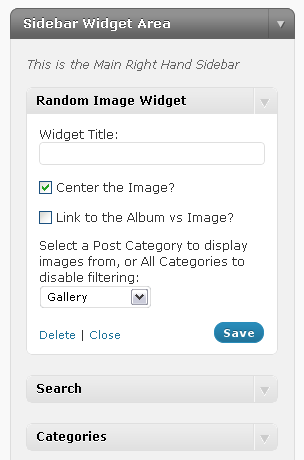
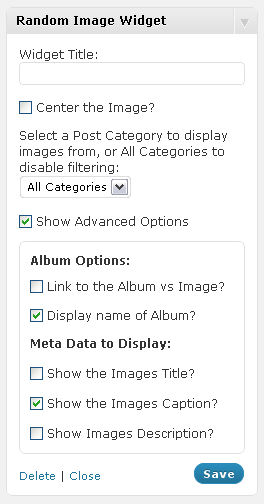
updating to 0.9.1

Changed region(s): [[0.0, 0.0, 1.0, 1.0], [0.4242, 0.7, 0.8788, 0.7609]]

diff --git a/index.html b/index.html
@@ -52,10 +52,17 @@
 		      <p>If you have any problems or concerns with this plugin, please leave a <a href="#idc-container">comment below</a>.</p>
 		      <p>This Plugin is fully translated into the following languages:</p> 
 		      <ul>
+			  <li>Arabic</li>
+			  <li>Czech</li>
+			  <li>Finnish</li>
 		          <li>French</li>
+			  <li>Danish</li>
+			  <li>Dutch</li>
 			  <li>German</li>
+			  <li>Indonesian</li>
 			  <li>Italian</li>
 			  <li>Portuguese</li>
+			  <li>Russian</li>
 			  <li>Spanish</li>
 		      </ul>
 		      <p>If you would like to help translating this plugin, or you see a problem with the current translation, please <a href="http://mattrude.com/contact-me/" >contact me</a>.</p> 
@@ -64,8 +71,10 @@
 		    <br>
 		    <a id=Download name=Download></a>
 		    <h2>Download</h2> 
-		    <p>The Current Version is 0.8 released on August, 29th 2010.</p>
+		    <p>The Current Version is 0.9.1 released on October 3rd, 2010.</p>
 		    <ul> 
+			<li><a href="http://github.com/downloads/mattrude/random-image-block/random-image-block.0.9.1.zip">Random Image Block &#8211; Version 0.9.1</a></li> 
+			<li><a href="http://github.com/downloads/mattrude/random-image-block/random-image-block.0.9.zip">Random Image Block &#8211; Version 0.9</a></li> 
 			<li><a href="http://github.com/downloads/mattrude/random-image-block/random-image-block.0.8.zip">Random Image Block &#8211; Version 0.8</a></li> 
 			<li><a href="http://github.com/downloads/mattrude/random-image-block/random-image-block.0.7.zip">Random Image Block &#8211; Version 0.7</a></li> 
 			<li><a href="http://github.com/downloads/mattrude/random-image-block/random-image-block.0.6.zip">Random Image Block &#8211; Version 0.6</a></li> 
@@ -128,6 +137,12 @@
 		    <br>
 		    <a id=ChangeLog name=ChangeLog></a>
 		    <h2>Change Log</h2>
+		    <h3>Version 0.9.1</h3>
+		    <ul><li>Fixed bug where default options were always on</li></ul>
+		    <h3>Version 0.9</h3>
+		    <ul><li>Added Advanced Options</li></ul>
+		    <ul><li>Allow for custom Meta data</li></ul>
+		    <ul><li>Added Tranlation for: Arabic, Czech, Danish, Dutch, Finnish, Indonesian, & Russian</li></ul>
 		    <h3>Version 0.8</h3>
 		    <ul><li>Added ability to link to the album vs the image.</li></ul>
 		    <h3>Version 0.7</h3>
